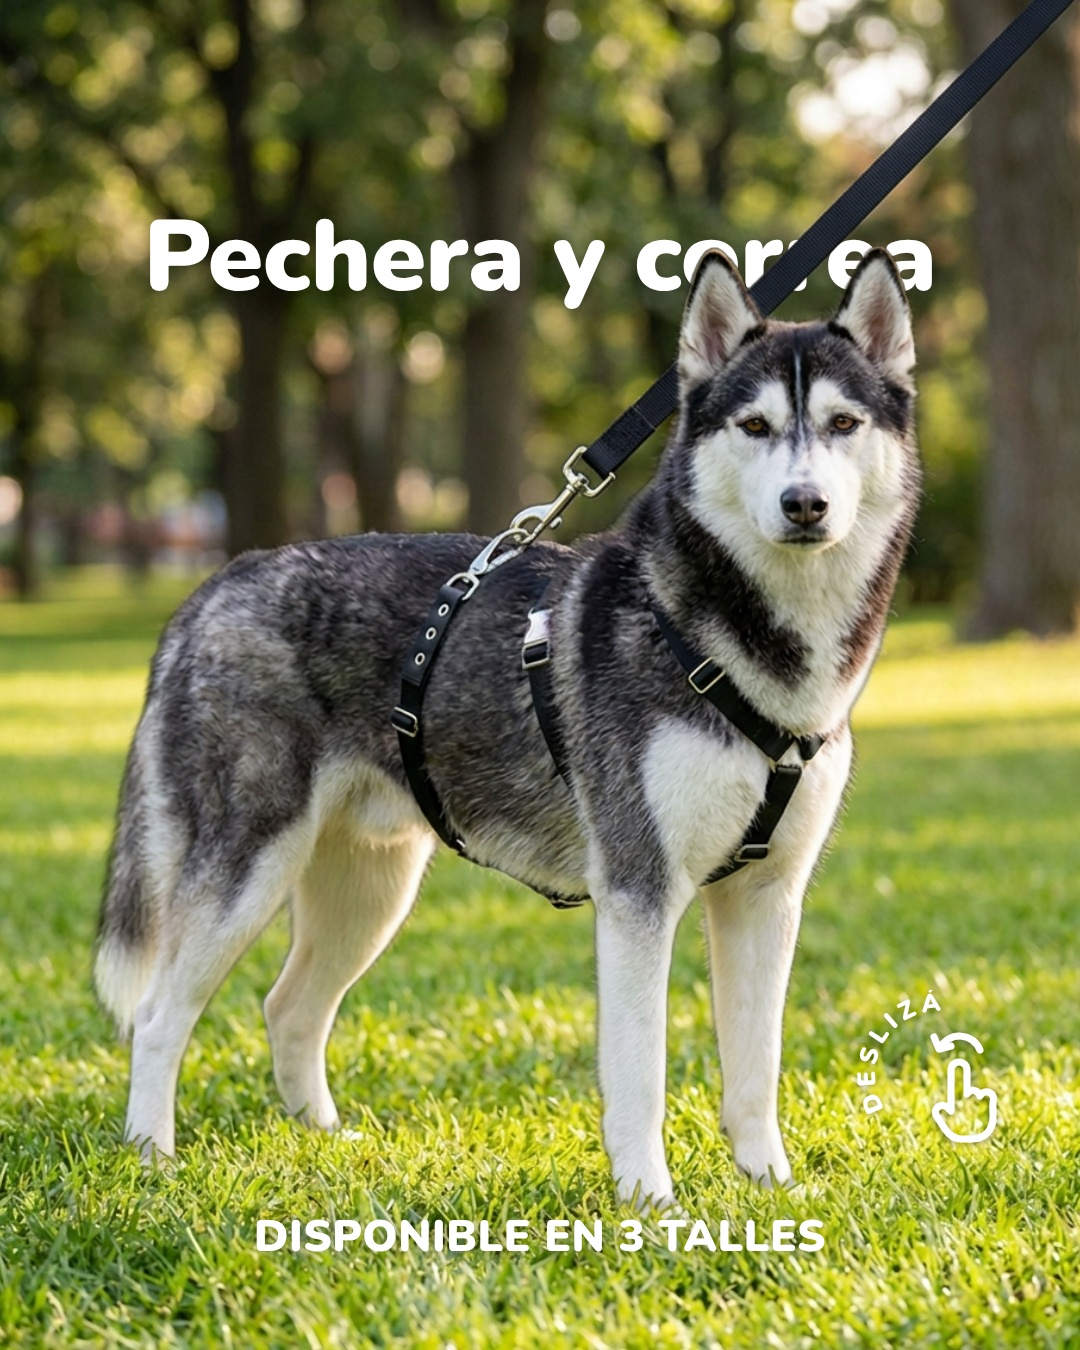
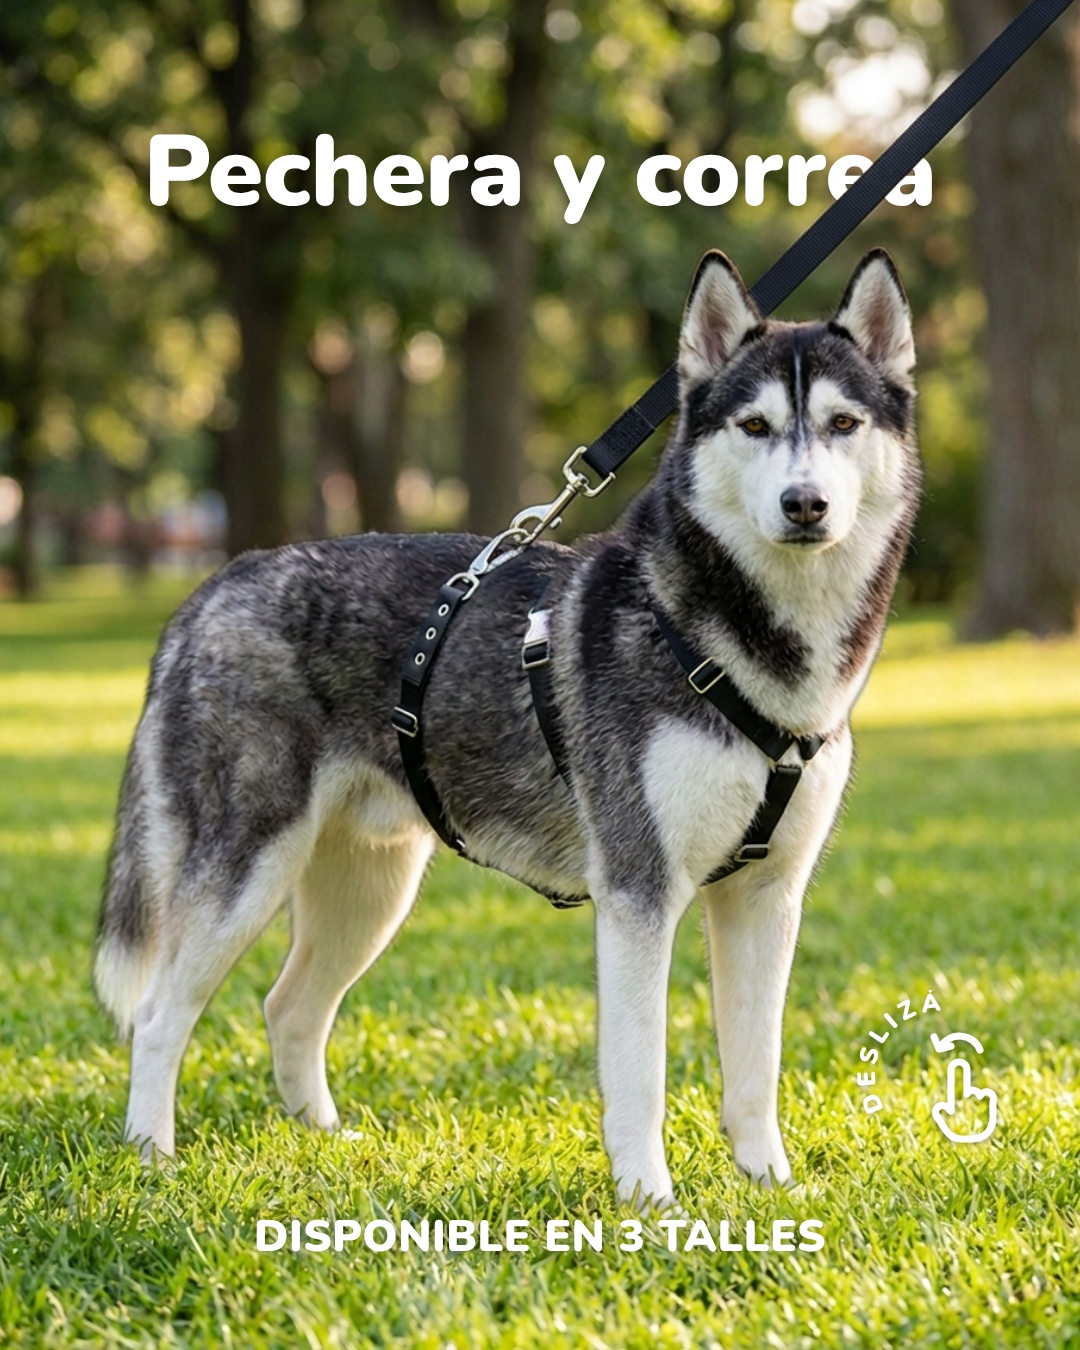
Portada de pechera: título legible, solo la correa lo cruza
Claude-Session: https://claude.ai/code/session_01UFgb9cPkwjsoNhDLqTBRZN

Changed region(s): [[0.1222, 0.0933, 0.4889, 0.2178], [0.5806, 0.0933, 0.8861, 0.2178], [0.5194, 0.0933, 0.55, 0.2489]]

diff --git a/lineamientos/estilos-de-post.md b/lineamientos/estilos-de-post.md
@@ -67,7 +67,8 @@ Todos estos elementos están listos en **`marca/elementos/`** (SVG vectorial y P
 - **Qué es:** foto real de uso con el título en Nunito 900 blanco que **pasa por detrás** de un elemento de la foto (una mano, una oreja, la cabeza del perro). Es el efecto que más se destaca.
 - **Título:** Nunito 900 blanco, 88–96 px, una línea, centrado entre y 140 y 240.
 - **Línea inferior (opcional):** Nunito 900 en mayúsculas, blanco, 42–46 px, a lo ancho, cerca de y 1250. Ejemplo: «DISPONIBLE EN 3 COLORES».
-- **Cómo se hace:** se recorta el elemento que va adelante (mano, cabeza, correa) y se coloca encima del texto. Necesita una foto con algo que cruce la zona del título. En el Studio: plantilla «Portada · título con profundidad», con la foto y el recorte (PNG sin fondo del mismo tamaño; se saca con rembg, modelo `isnet-general-use`). La altura del título se ajusta hasta que solo una parte del sujeto (las orejas, la mano) pase por delante y el texto se siga leyendo.
+- **Cómo se hace:** se recorta el elemento que va adelante (mano, cabeza, correa) y se coloca encima del texto. Necesita una foto con algo que cruce la zona del título. En el Studio: plantilla «Portada · título con profundidad», con la foto y el recorte (PNG sin fondo del mismo tamaño; se saca con rembg, modelo `isnet-general-use`). La altura del título se ajusta hasta que solo algo fino pase por delante.
+- **Regla de oro: el título siempre se lee entero.** Por delante pasa algo fino (una correa, un dedo, la punta de una oreja), nunca la cabeza ni algo que tape una palabra. Si tapa, se sube o se baja el título.
 - **Ejemplo:** `posts/2026-11-pechera-y-correa/`.
 
 ![](estilos/1-titulo-con-profundidad-studio.jpg)

diff --git a/posts/2026-11-pechera-y-correa/texto.md b/posts/2026-11-pechera-y-correa/texto.md
@@ -1,7 +1,7 @@
 # Pechera y correa
 
 **Formato:** carrusel de 2 slides, 1080×1350.
-- Slide 1: portada con título con profundidad («Pechera y correa» pasa por detrás de las orejas y la correa del husky) y «DISPONIBLE EN 3 TALLES».
+- Slide 1: portada con título con profundidad (la correa del husky cruza «Pechera y correa») y «DISPONIBLE EN 3 TALLES».
 - Slide 2: ficha del producto con colores, nombre y descripción.
 
 **Producto:** Conjunto Correa + Pechera para Perro (seranimal.com.uy). Datos tomados de la web: pechera + correa de seda, talles N1 Mini, N3 Medio y N4 Grande, colores surtidos según stock. Sin precio.
